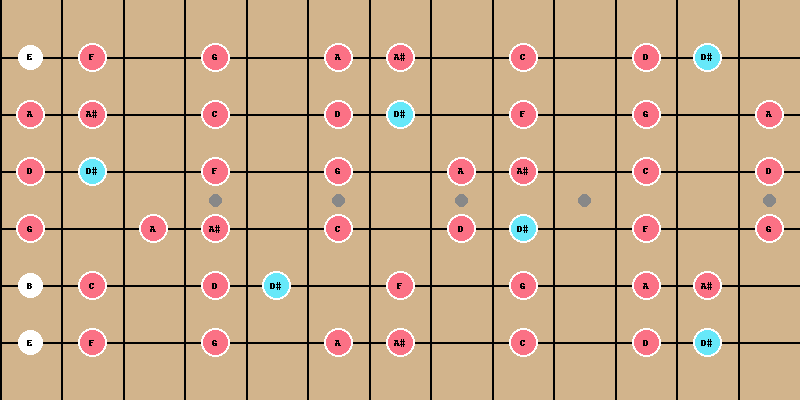
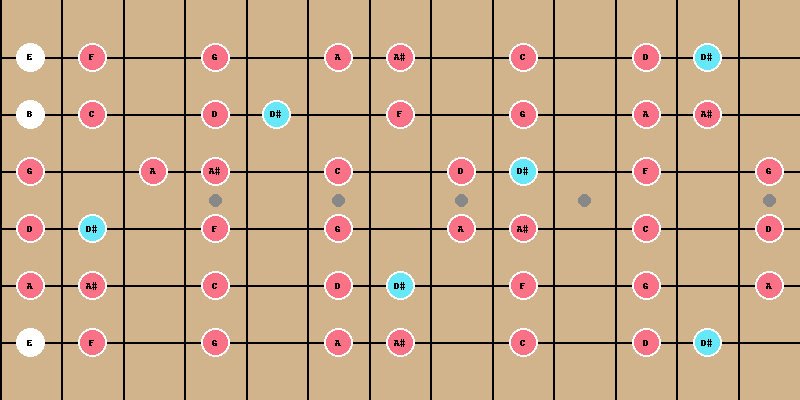
Add files via upload

diff --git a/index.html b/index.html
@@ -62,7 +62,7 @@ const fretboardContainer = document.getElementById('fretboard-container');
 const scaleOptionsMap = {
   major: ['Major','Pentatonic','Blues'],
   minor: ['Natural Minor','Harmonic Minor','Melodic Minor','Pentatonic','Blues'],
-  church: ['Ionian','Dorian','Phrygian','Lydian','Lydian','Mixolydian','Aeolian','Locrian']
+  church: ['Ionian','Dorian','Phrygian','Lydian','Mixolydian','Aeolian','Locrian']
 };
 
 const fretboardImageMap = {
@@ -78,18 +78,6 @@ const fretboardImageMap = {
   'A-church-lydian': 'A_lydian_fretboard_reversed.png',
   'Asharp-church-lydian': 'Asharp_lydian_fretboard_reversed.png',
   'B-church-lydian': 'B_lydian_fretboard_reversed.png',
-  'C-church-phrygian': 'C_phrygian_fretboard_reversed.png',
-  'Csharp-church-phrygian': 'Csharp_phrygian_fretboard_reversed.png',
-  'D-church-phrygian': 'D_phrygian_fretboard_reversed.png',
-  'Dsharp-church-phrygian': 'Dsharp_phrygian_fretboard_reversed.png',
-  'E-church-phrygian': 'E_phrygian_fretboard_reversed.png',
-  'F-church-phrygian': 'F_phrygian_fretboard_reversed.png',
-  'Fsharp-church-phrygian': 'Fsharp_phrygian_fretboard_reversed.png',
-  'G-church-phrygian': 'G_phrygian_fretboard_reversed.png',
-  'Gsharp-church-phrygian': 'Gsharp_phrygian_fretboard_reversed.png',
-  'A-church-phrygian': 'A_phrygian_fretboard_reversed.png',
-  'Asharp-church-phrygian': 'Asharp_phrygian_fretboard_reversed.png',
-  'B-church-phrygian': 'B_phrygian_fretboard_reversed.png',
   'C-church-dorian': 'C_dorian_fretboard_reversed.png',
   'Csharp-church-dorian': 'Csharp_dorian_fretboard_reversed.png',
   'D-church-dorian': 'D_dorian_fretboard_reversed.png',
